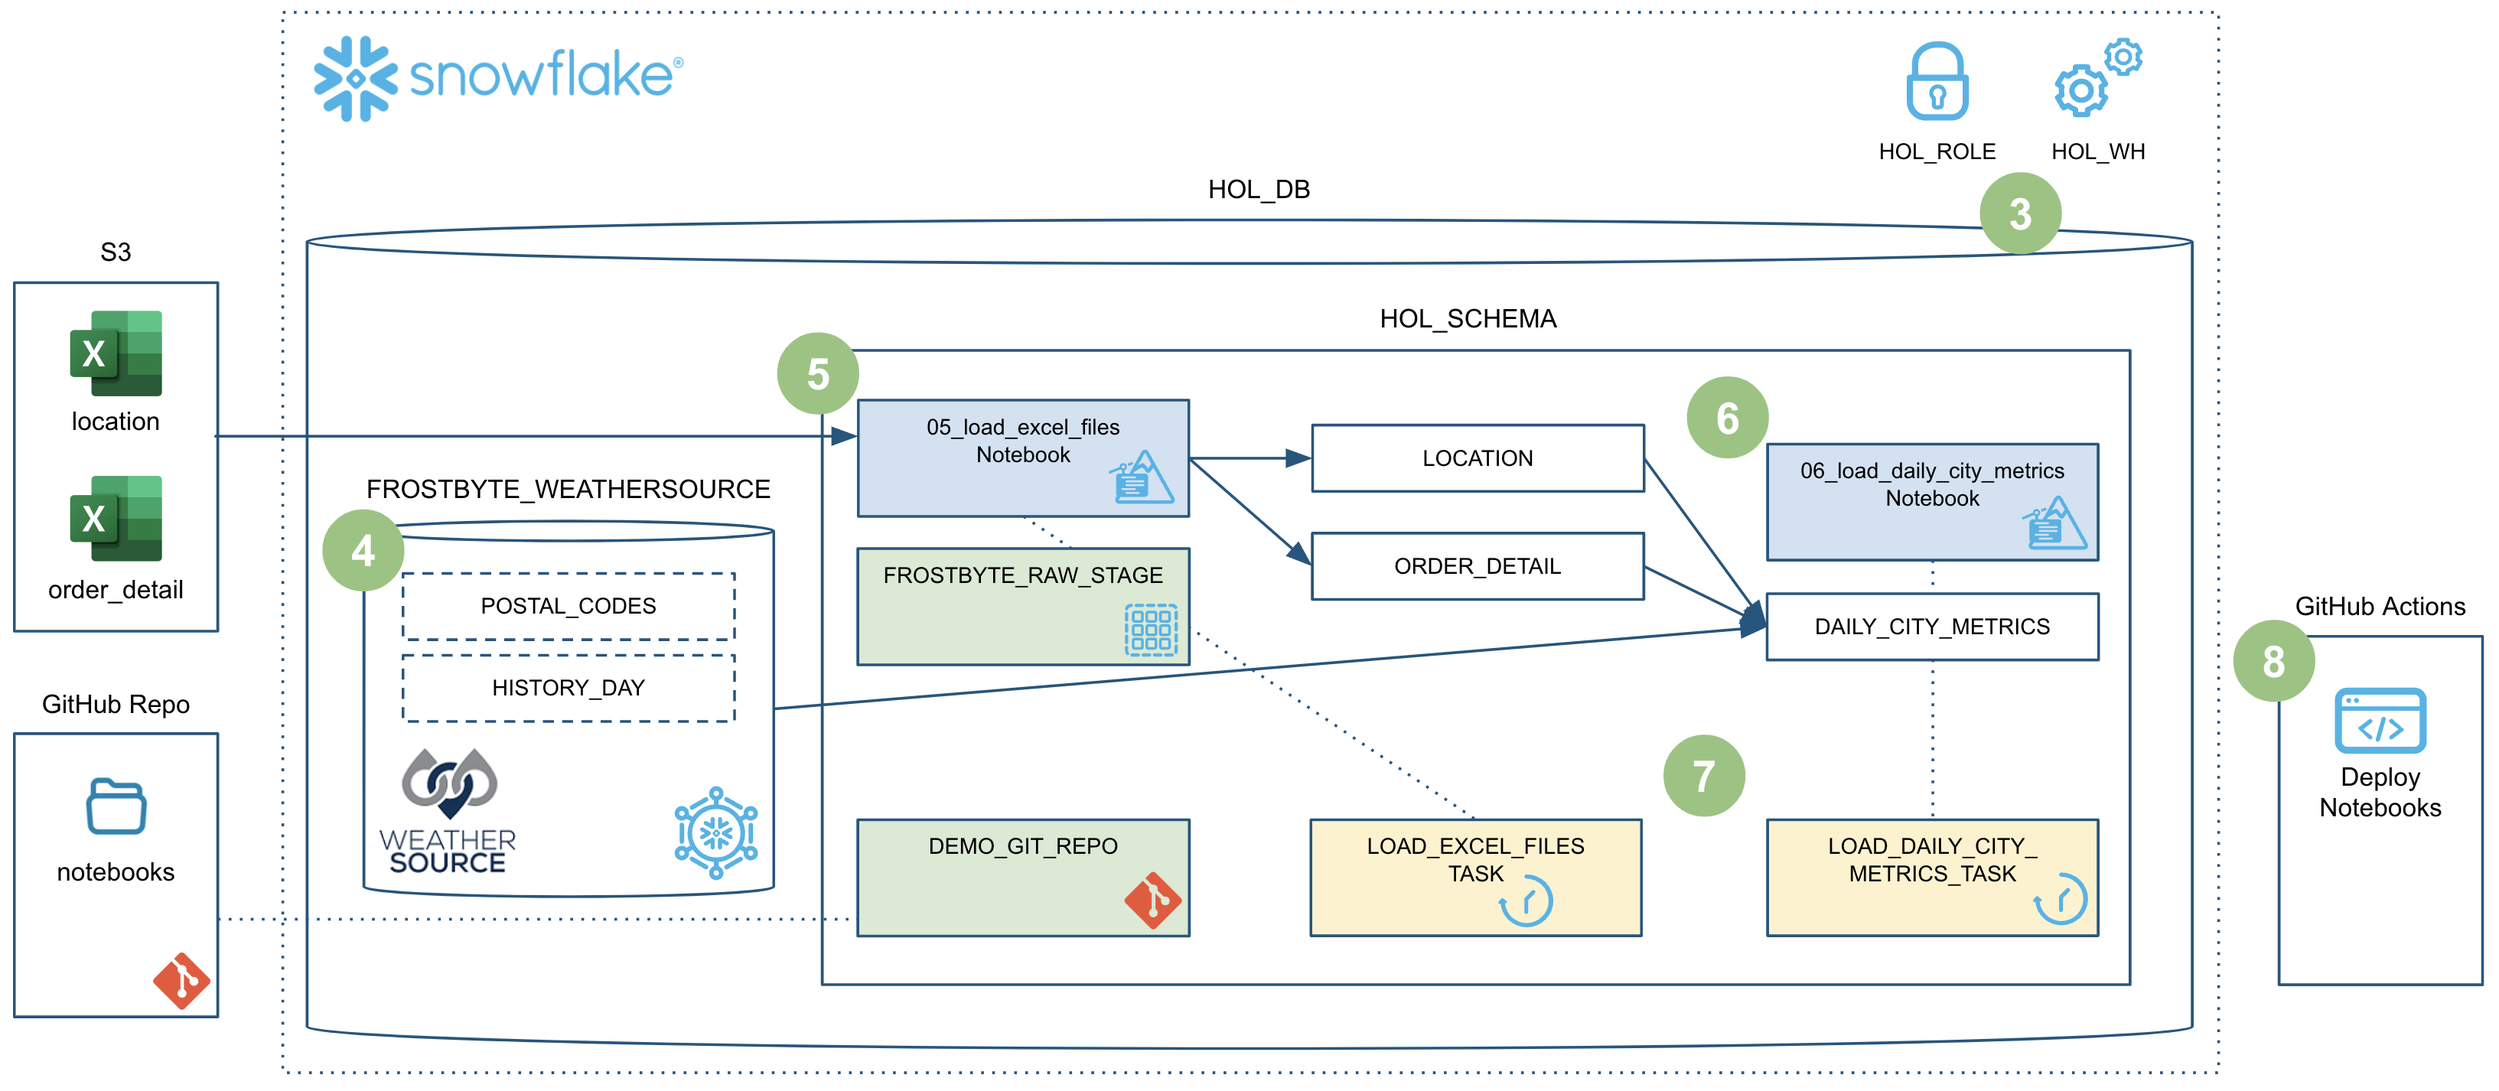
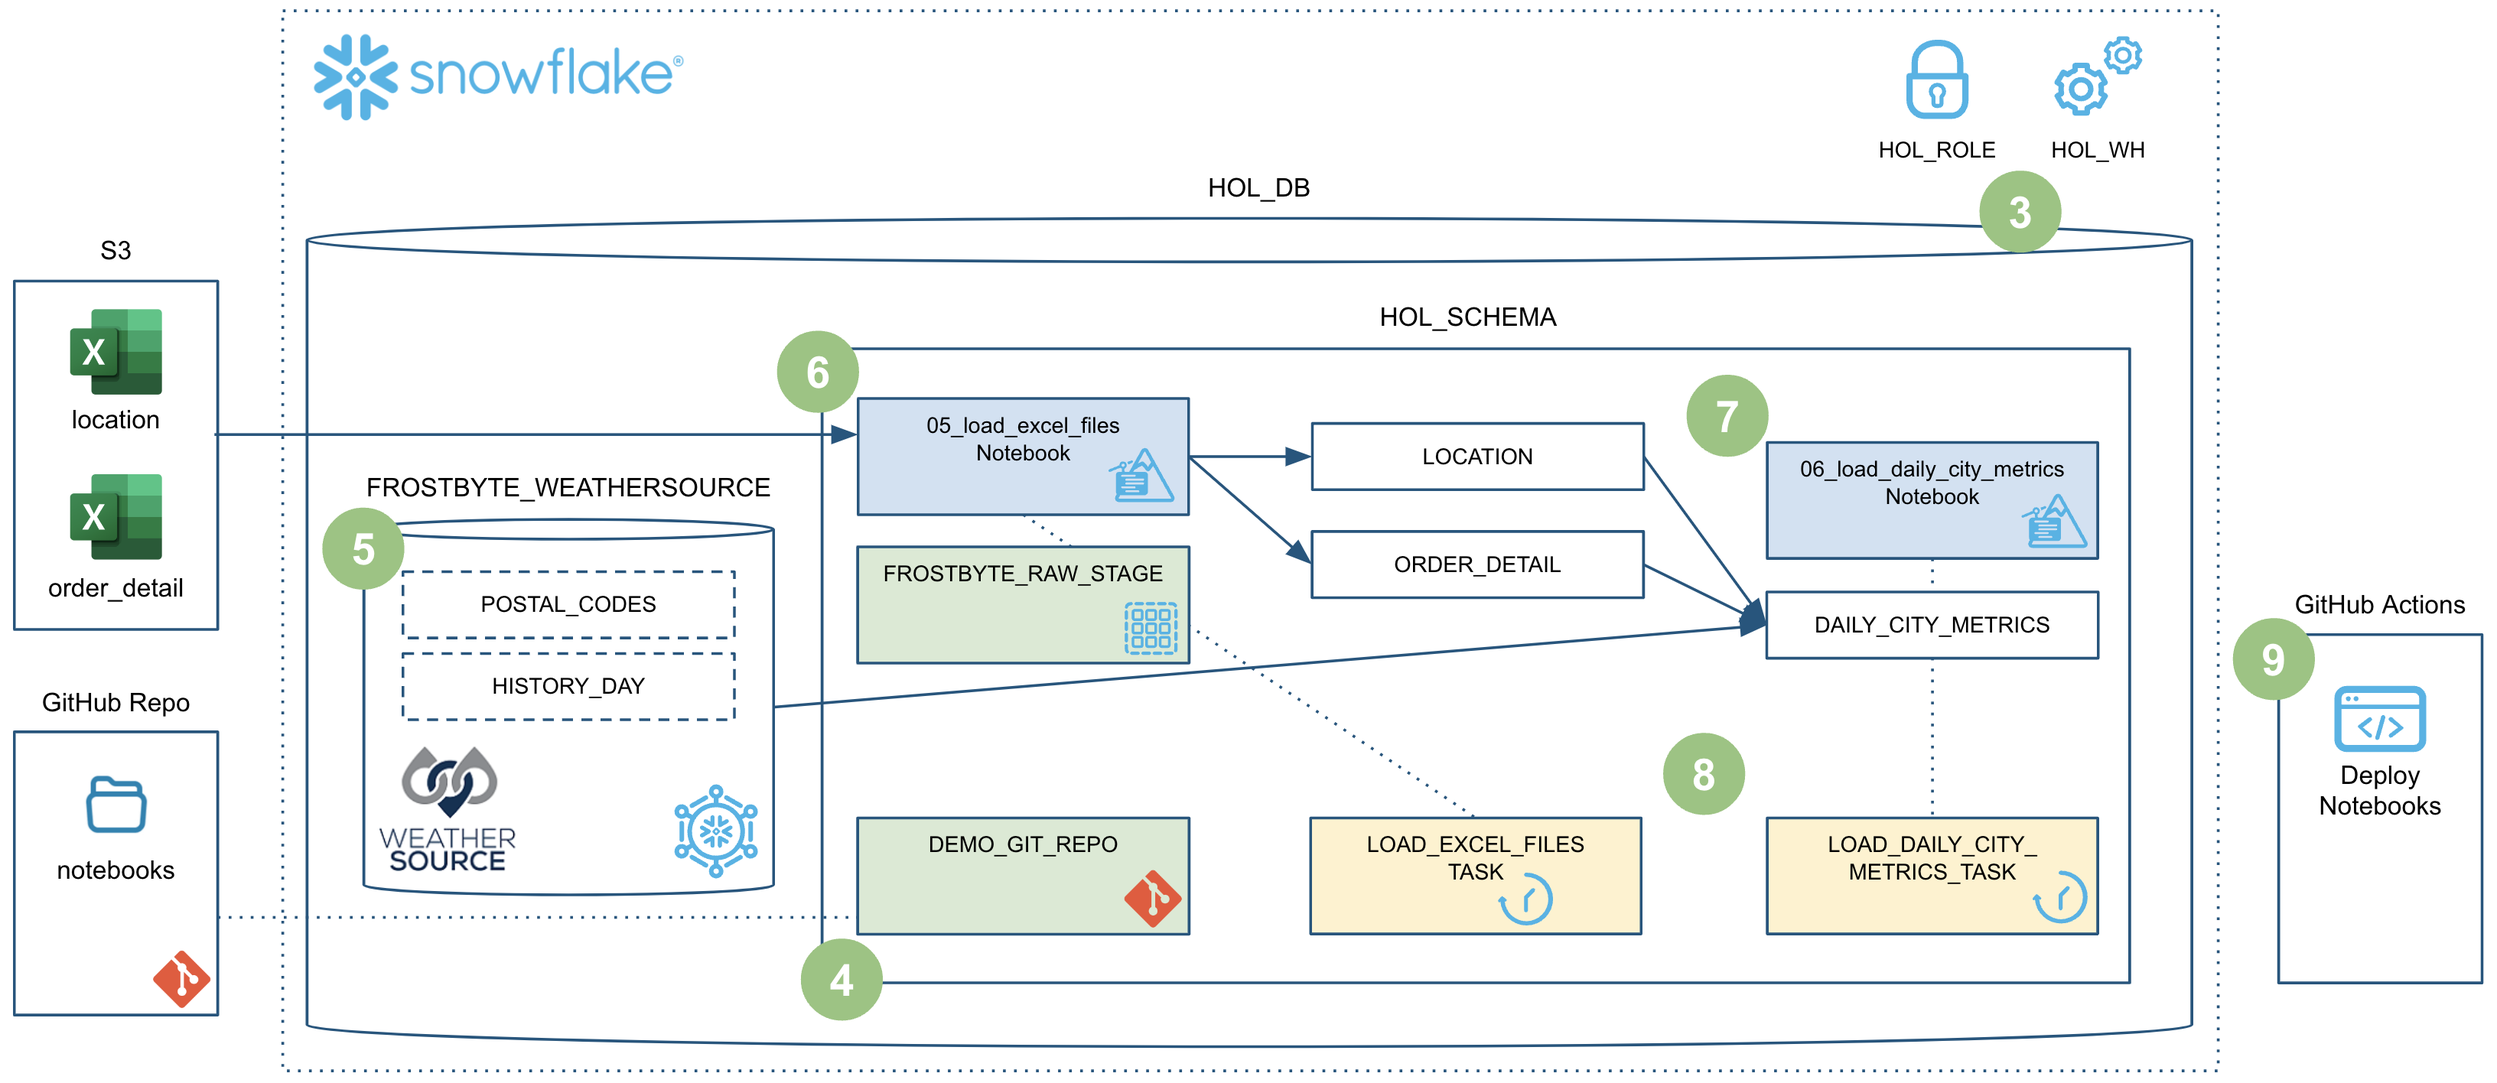
More DE Notebook QS content

diff --git a/site/sfguides/src/data_engineering_with_notebooks/data_engineering_with_notebooks.md b/site/sfguides/src/data_engineering_with_notebooks/data_engineering_with_notebooks.md
@@ -130,10 +130,10 @@ Duration: 10
 
 Since the focus of this Quickstart is on Notebooks, we're going to use a Notebook to set up our Snowflake demo environment. 
 
-### Download the Notebook
+### Download the 00 Notebook
 The Notebook we're going to use to set up our Snowflake demo environment can be found in your forked repository. From the GitHub web UI open the `00_start_here.ipynb` file and then download the raw file (using one of the links near the top right of the page).
 
-### Import the Notebook to Snowflake
+### Import the 00 Notebook to Snowflake
 Follow these steps to import the Notebook into your Snowflake account:
 
 * Log into Snowsight
@@ -143,7 +143,7 @@ Follow these steps to import the Notebook into your Snowflake account:
 * Choose a database and schema for the notebook to live in and then a default warehouse for the notebook
 * Click "Create"
 
-### Run the Setup Notebook Cells
+### Run the 00 Setup Notebook Cells
 Before you can run the set up steps in the `00_start_here.ipynb` Notebook you need to first add the `snowflake` package to it. To do that, follow these steps: 
 
 * Open the Notebook
@@ -207,34 +207,246 @@ That's it... we don't have to do anything from here to keep this data updated. T
 ## Load Location and Order Detail
 Duration: 10
 
+During this step we will be loading data from two Excel files in S3 into the `LOCATION` and `ORDER_DETAIL` tables. To do this we'll take advantage of the [Snowpark Python file access feature](https://docs.snowflake.com/en/developer-guide/stored-procedure/stored-procedures-python#reading-files). For more details on this please see my related blog post [Simplify data ingestion with Snowpark Python file access](https://medium.com/snowflake/simplify-data-ingestion-with-snowpark-python-file-access-f2bc0e4cd887).
+
+> aside negative
+> 
+> **Note** - As of 6/11/2024, the [Snowpark Python file access feature](https://docs.snowflake.com/en/developer-guide/stored-procedure/stored-procedures-python#reading-files), which relies on the `SnowflakeFile` class, does not yet work inside Notebooks. So we are using a workaround of copying the file locally to the Notebook and then processing from there.
+
+To put this in context, we are on step **#6** in our data flow overview:
+
+<img src="assets/quickstart_overview.png" width="800" />
+
 ### Run the Notebook
+
+In step 3 we deployed development versions of our two data engineering notebooks, which are owned by the `DEMO_ROLE` role. So first switch roles in Snowsight to the `DEMO_ROLE` and then open the `DEV_06_load_excel_files` Notebook.
+
+> aside positive
+> 
+>  **Tip** - Since we will be going back to the `00_start_here` Notebook later, it might be easier to open a new Snowsight tab and set the default role to `DEMO_ROLE` there, and leave your current tab with the `00_start_here` Notebook open as well.
+
+Once you've opened the `DEV_06_load_excel_files` Notebook click on the "Run all" button near the top right of the window. This will execute all cells in the notebook, in order.
+
 ### Notebook Git Integration
+
+You will notice that to the left of the main Notebook area there is a sidebar which shows the files that make up the Notebook. And since we created this Notebook from our Git repository you will also notice the Git related identifiers. From the sidebar you can see which branch the Notebook is working from along with the ability to pull changes from the repo. So here is even more Git integration built directly in Snowsight. Here's a screenshot:
+
+<img src="assets/snowsight_notebook_git.png" width="400" />
+
 ### Notebook Cell References
-### Loading Excel Files
-### Dynamic File Access?
-### Snowpark DataFrame API
+
+You'll notice in the Notebook examples that we can pass values between cells. So for example, in the `sql_get_context` cell we have:
+
+```sql
+SELECT current_database() AS DATABASE_NAME, current_schema() AS SCHEMA_NAME
+```
+
+And then later in the `py_imports` cell you'll find the following code:
+
+```python
+current_context_df = cells.sql_get_context.to_pandas()
+database_name = current_context_df.iloc[0,0]
+schema_name = current_context_df.iloc[0,1]
+```
+
+So we're able to take the results of a SQL query and use them in Python! And this works the other direction as well, accessing Python values in SQL. For more details please see [Reference cells and variables in Snowflake Notebooks](https://docs.snowflake.com/en/user-guide/ui-snowsight/notebooks-develop-run#reference-cells-and-variables-in-sf-notebooks) in our documentation.
+
+### Dynamic File Access
+
+Like I mentioned at the beginning of this section, we're able to read on process Excel files with the [Snowpark Python file access feature](https://docs.snowflake.com/en/developer-guide/stored-procedure/stored-procedures-python#reading-files). And this same prinipal applies to more than just Excel files, you can use it to process any file format you'd like. For more details on this please see my related blog post [Simplify data ingestion with Snowpark Python file access](https://medium.com/snowflake/simplify-data-ingestion-with-snowpark-python-file-access-f2bc0e4cd887).
+
+> aside negative
+> 
+> **Note** - As of 6/11/2024, the [Snowpark Python file access feature](https://docs.snowflake.com/en/developer-guide/stored-procedure/stored-procedures-python#reading-files), which relies on the `SnowflakeFile` class, does not yet work inside Notebooks. So we are using a workaround of copying the file locally to the Notebook and then processing from there.
 
 
 <!-- ------------------------ -->
 ## Load Daily City Metrics
 Duration: 10
 
+During this step we will be joining data from our `LOCATION` and `ORDER_DETAIL` tables (from the previous step) with the weather data we set up in step 5 to produce an aggreated reporting table `DAILY_CITY_METRICS`. We'll leverage the Snowpark DataFrame API to perform the data transformations, and will also show how to incorporate logging into your code. To put this in context, we are on step **#7** in our data flow overview:
+
+<img src="assets/quickstart_overview.png" width="800" />
+
 ### Run the Notebook
+
+In step 3 we deployed development versions of our two data engineering notebooks, which are owned by the `DEMO_ROLE` role. So first switch roles in Snowsight to the `DEMO_ROLE` and then open the `DEV_07_load_daily_city_metrics` Notebook. If you already switched roles in the previous step you can simply close the previous Notebook and open this one.
+
+Once you've opened the `DEV_07_load_daily_city_metrics` Notebook click on the "Run all" button near the top right of the window. This will execute all cells in the notebook, in order.
+
+### Snowpark DataFrame API
+
+In this step we're starting to really use the Snowpark DataFrame API for data transformations. The Snowpark API provides the same functionality as the [Spark SQL API](https://spark.apache.org/docs/latest/api/python/reference/pyspark.sql/index.html). To begin with you need to create a Snowpark session object. Like in PySpark, this can be accomplished with the `Session.builder.configs().create()` methods. But within a Snowflake Notebook this is simplified and can be accomplished simply with `session = get_active_session()`.
+
+One you have a Snowpark session you can begin working with data. In this Notebook we're using DataFrames to join the data from different tables into an `order_detail` DataFrame using the `join()` API.
+
+```python
+order_detail = order_detail.join(location, order_detail['LOCATION_ID'] == location['LOCATION_ID'])
+order_detail = order_detail.join(history_day, (F.builtin("DATE")(order_detail['ORDER_TS']) == history_day['DATE_VALID_STD']) & (location['ISO_COUNTRY_CODE'] == history_day['COUNTRY']) & (location['CITY'] == history_day['CITY_NAME']))
+```
+
+After that we're then aggregating the DataFrame using APIs such as `agg()`, `group_by()`, and `select()`.
+
+```python
+final_agg = order_detail.group_by(F.col('DATE_VALID_STD'), F.col('CITY_NAME'), F.col('ISO_COUNTRY_CODE')) \
+                        .agg( \
+                            F.sum('PRICE').alias('DAILY_SALES_SUM'), \
+                            F.avg('AVG_TEMPERATURE_AIR_2M_F').alias("AVG_TEMPERATURE_F"), \
+                            F.avg("TOT_PRECIPITATION_IN").alias("AVG_PRECIPITATION_IN"), \
+                        ) \
+                        .select(F.col("DATE_VALID_STD").alias("DATE"), F.col("CITY_NAME"), F.col("ISO_COUNTRY_CODE").alias("COUNTRY_DESC"), \
+                            F.builtin("ZEROIFNULL")(F.col("DAILY_SALES_SUM")).alias("DAILY_SALES"), \
+                            F.round(F.col("AVG_TEMPERATURE_F"), 2).alias("AVG_TEMPERATURE_FAHRENHEIT"), \
+                            F.round(F.col("AVG_PRECIPITATION_IN"), 2).alias("AVG_PRECIPITATION_INCHES"), \
+                        )
+```
+
+And finally if the target table exists we're using the `merge()` DataFrame API to perform and Upsert operation on the target table. This is what enables us to perform incremental processing.
+
+```python
+    dcm.merge(final_agg, (dcm['DATE'] == final_agg['DATE']) & (dcm['CITY_NAME'] == final_agg['CITY_NAME']) & (dcm['COUNTRY_DESC'] == final_agg['COUNTRY_DESC']), \
+                        [F.when_matched().update(cols_to_update), F.when_not_matched().insert(cols_to_update)])
+```
+
+Again, for more details about the Snowpark Python DataFrame API, please check out our [Working with Dataframe in Snowpark Python](https://docs.snowflake.com/en/developer-guide/snowpark/python/working-with-dataframes.html) page.
+
 ### Python Management API
+
+The new Python Management API allows us to programaticaly interact with Snowflake with native Python. This API can be used to both inspect and manage Snowflake objects. In the previous Quickstart we checked for the existing of an object by using SQL like this:
+
+```sql
+def table_exists(session, database_name='', schema_name='', table_name=''):
+    exists = session.sql("SELECT EXISTS (SELECT * FROM {}.INFORMATION_SCHEMA.TABLES WHERE TABLE_SCHEMA = '{}' AND TABLE_NAME = '{}') AS TABLE_EXISTS".format(database_name, schema_name, table_name)).collect()[0]['TABLE_EXISTS']
+    return exists
+```
+
+But with the Python Management API this can now be done with native Python like this:
+
+```python
+def table_exists(session, database_name='', schema_name='', table_name=''):
+    root = Root(session)
+    tables = root.databases[database_name].schemas[schema_name].tables.iter(like=table_name)
+    for table_obj in tables:
+        if table_obj.name == table_name:
+            return True
+
+    return False
+```
+
+And this is really just the beginning of what you can do with this new library. Please check out the [Snowflake Python Management API](https://docs.snowflake.com/en/developer-guide/snowflake-python-api/snowflake-python-overview) documentation for more details.
+
 ### Logging in Python
+
+A key aspect of building robust data engineering pipelines involves instrumenting our code. This enables the monitoring and operations of our code, as is especially importnat when auotmating the deployment and monitoring of our pipelines with DevOps. Snowflake has a rich set of [Logging and Tracing](https://docs.snowflake.com/en/developer-guide/logging-tracing/logging-tracing-overview) capabilities to help.
+
+You'll notice that in the `py_imports` cell of this Notebook we're using Snowflake's logging capabilities. There are two steps to do so in your code. The first is to create a logger to use:
+
+```python
+logger = logging.getLogger("demo_logger")
+```
+
+And the second is to actually log debugging and informational messages at the appropriate places in your code:
+
+```python
+logger.info("07_load_daily_city_metrics start")
+```
+
+In addition to custom logging, Snowflake is instrumenting all services/features to take advantage of logging and tracing as well. For example, when you ran this Notebook earlier it logged a number of messages by default, like when each cell executed.
+
+All of your log messages can be found in your default logging table, which we created in step 3. If you look back at the code from step 3 you'll find that we created an event table named `DEMO_DB.INTEGRATIONS.DEMO_EVENTS` and then set that as the default event table for the account. You can now use this table just like any other table in Snowflake to query and act on the log data.
+
 ### Log Viewer in Snowsight
 
+In addition to directly querying the event table, you can also use our new log viewer directly inside Snowsight to make things even easier. To find the log viewer click on "Monitoring" followed by "Logs" in the left navigation bar. Once on that page you can visualize, filter and search through your logs.
 
 <!-- ------------------------ -->
 ## Orchestrate Jobs
 Duration: 10
 
-### Python Task DAG API
+During this step we will be orchestrating our new Snowpark Notebook pipelines with Snowflake's native orchestration feature named Tasks. You can create and deploy Snowflake Task objects using SQL as well as Python Task APIs. For this quickstart, we will use Snowflake Python Task APIs to create the Tasks. We will create two tasks, one for each Notebook, and chain them together. To put this in context, we are on step **#8** in our data flow overview:
+
+<img src="assets/quickstart_overview.png" width="800" />
+
 ### Deploy Task DAG
+
+Toggle back to the `00_start_here` Notebook, scroll down to the "Step 08 Orchestrate Pipelines" section, and run each of the cells.
+
+### Python Task DAG API
+
+In this step we will create a DAG (or Directed Acyclic Graph) of Tasks using the new [Snowflake Python Management API](https://docs.snowflake.com/en/developer-guide/snowflake-python-api/snowflake-python-overview). The Task DAG API builds upon the Python Management API to provide advanced Task management capabilities. And if you've used Airflow before, this Python API should look familiar as it's similar to the Airflow v1 Python API. For more details see [Managing Snowflake tasks and task graphs with Python](https://docs.snowflake.com/en/developer-guide/snowflake-python-api/snowflake-python-managing-tasks).
+
+Here is the key part of the code:
+
+```python
+# Define the DAG
+with DAG(dag_name, schedule=timedelta(days=1), warehouse=warehouse_name) as dag:
+    dag_task1 = DAGTask("LOAD_EXCEL_FILES_TASK", definition=f'''EXECUTE NOTEBOOK "{database_name}"."{schema_name}"."{env}_05_load_excel_files"()''', warehouse=warehouse_name)
+    dag_task2 = DAGTask("LOAD_DAILY_CITY_METRICS", definition=f'''EXECUTE NOTEBOOK "{database_name}"."{schema_name}"."{env}_06_load_daily_city_metrics"()''', warehouse=warehouse_name)
+
+    # Define the dependencies between the tasks
+    dag_task1 >> dag_task2 # dag_task1 is a predecessor of dag_task2
+
+# Create the DAG in Snowflake
+dag_op.deploy(dag, mode="orreplace")
+```
+
+You can see that we're defining two tasks, one for each Notebook, and that each task simply calls `EXECUTE NOTEBOOK` for the corresponding Notebook. We then define the dependencies and deploy the DAG. As you can see this makes managing complex Task DAGs much easier!
+
+This code is also available in the `scripts/deploy_task_dag.py` script which could be used to automate the Task DAG deployment.
+
 ### Task Viewer in Snowsight
+
+Now, after your dag is deployed, all the tasks in your dag will be running as per the defined schedule. However, as a Snowflake user, how can you peek into the success and failure of each run, look at the task run time, and more?
+
+Snowflake provides some rich task observability features in the Snowsight UI. Try it out for yourself by following these steps:
+
+1. In the Snowsight navigation menu, click **Data** » **Databases**.
+1. In the right pane, using the object explorer, navigate to the `DEMO_DB` database and `DEV_SCHEMA` schema.
+1. For the selected schema, select and expand **Tasks**.
+1. Select a task. Task information is displayed, including **Task Details**, **Graph**, and **Run History** sub-tabs.
+1. Select the **Graph** tab. The task graph appears, displaying a hierarchy of child tasks.
+1. Select a task to view its details.
+
+Here's what the task graph looks like:
+
+<img src="assets/snowsight_task_graph.png" width="800" />
+
+And here's an example of the task run history:
+
+<img src="assets/snowsight_task_run_history.png" width="800" />
+
+For more details, and to learn about viewing account level task history, please check out our [Viewing Task History](https://docs.snowflake.com/en/user-guide/ui-snowsight-tasks.html) documentation.
+
 ### Executing the DAG
+
+The easiest way to manually kick off the Task DAG execution is to open up the root `DEMO_DAG` task, click on the "Graph" tab and then click on the "Run Task Graph" play button above the diagram. If not already set, you may have to pick a warehouse to use.
+
 ### Task Metadata
 
+Snowflake keeps metadata for almost everything you do, and makes that metadata available for you to query (and to create any type of process around). Tasks are no different, Snowflake maintains rich metadata to help you monitor your task runs. Here are a few sample SQL queries you can use to monitor your tasks runs:
+
+```sql
+-- Get a list of tasks
+SHOW TASKS;
+
+-- Task execution history in the past day
+SELECT *
+FROM TABLE(INFORMATION_SCHEMA.TASK_HISTORY(
+    SCHEDULED_TIME_RANGE_START=>DATEADD('DAY',-1,CURRENT_TIMESTAMP()),
+    RESULT_LIMIT => 100))
+ORDER BY SCHEDULED_TIME DESC
+;
+
+-- Scheduled task runs
+SELECT
+    TIMESTAMPDIFF(SECOND, CURRENT_TIMESTAMP, SCHEDULED_TIME) NEXT_RUN,
+    SCHEDULED_TIME,
+    NAME,
+    STATE
+FROM TABLE(INFORMATION_SCHEMA.TASK_HISTORY())
+WHERE STATE = 'SCHEDULED'
+ORDER BY COMPLETED_TIME DESC;
+```
 
 <!-- ------------------------ -->
 ## Deploy to Production
